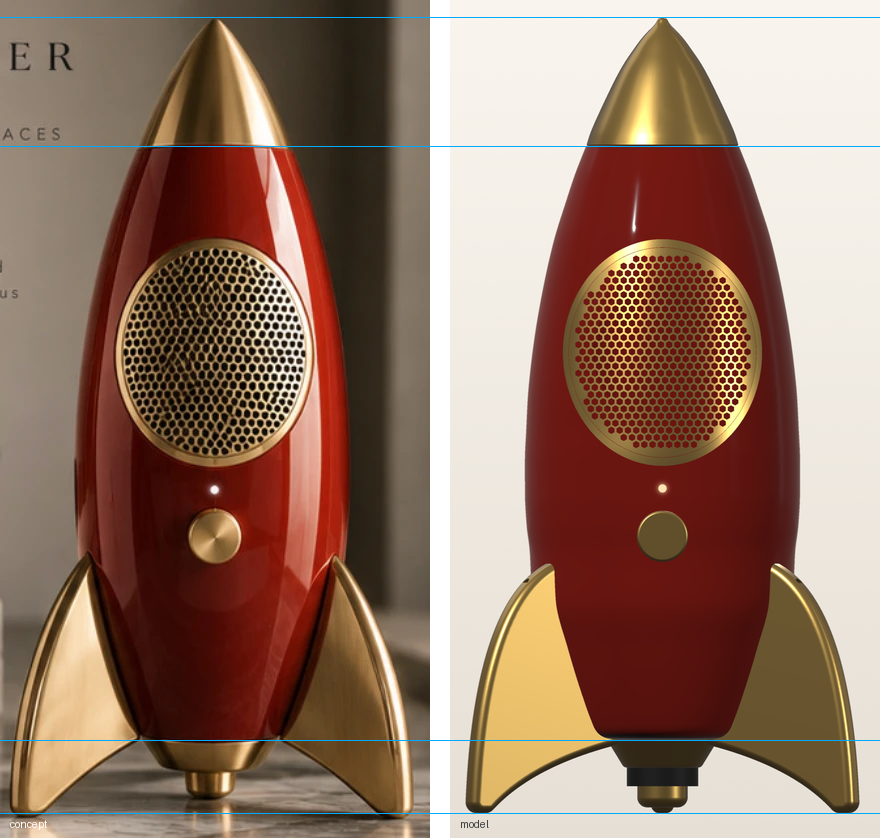
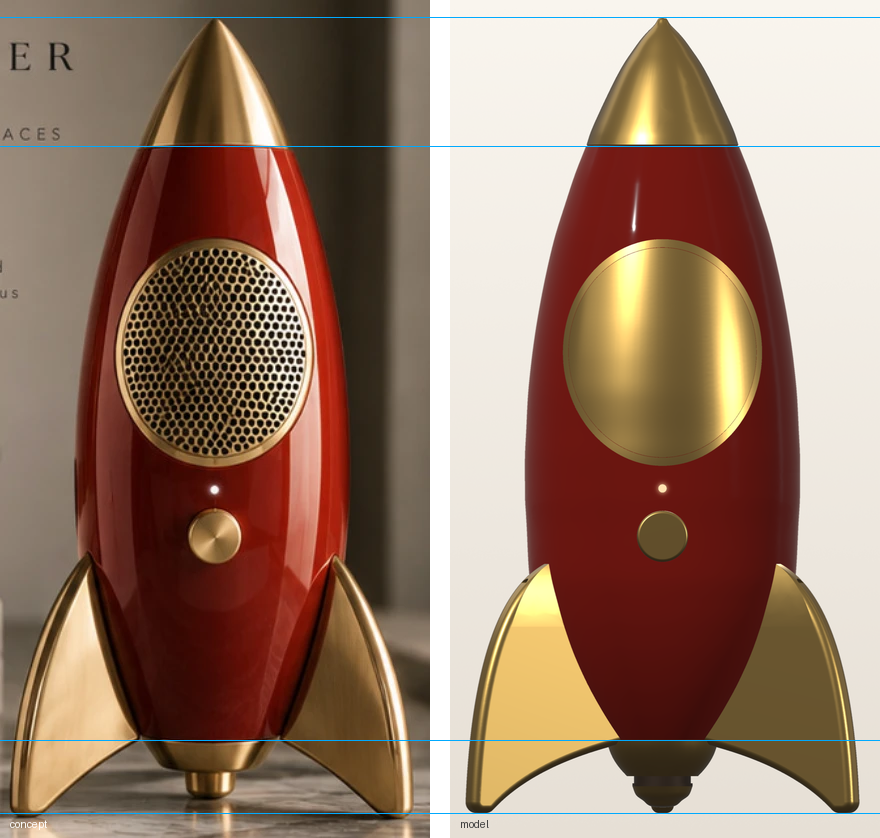
Draft: concept refinements to body taper, base, fin tops and grille backing
- Lower body tapers smoothly into the collar from knob height
- Collar is a convex gold cup flowing (across the vent line) into a small
  rounded foot; vent gap 3.5 mm, set 2.5 mm deeper, dark bronze, with the
  plate covering the foot top so no gold ledge catches light
- Fin tops thin to a point with a tangent taper (after edge rounding)
- Charcoal acoustic-cloth backing behind the grille
- compare_concept.py --draft and render.render_closeup for quick checks

Claude-Session: https://claude.ai/code/session_01Qkpg3hSMGJCCsE2jenCZsk

diff --git a/model.py b/model.py
@@ -37,6 +37,7 @@ from build123d import (
     chamfer,
     Location,
     Plane,
+    Polygon,
     Polyline,
     Pos,
     Rot,
@@ -157,6 +158,7 @@ def build(p, visual_only=False) -> Model:
         zm = z0 + bh * tt[int(np.argmax(rr))]
         a_top = math.atan(-R * float(f(1.0, 1)) / bh)
         d0 = R * float(f(0.0, 1)) / bh                              # dr/dz at the bottom
+        slope_bot = d0
         outer_curve = Edge.make_spline(
             [_xz(r, z) for r, z in prof],
             tangents=[Vector(d0, 0, 1).normalized(), Vector(-math.sin(a_top), 0, math.cos(a_top))])
@@ -175,6 +177,7 @@ def build(p, visual_only=False) -> Model:
         # slope at the joint, continued by the nose cone
         a_top = math.atan((R - rt) * nt / (zt - zm))
         a_bot = math.atan((R - rb) * nb / (zm - z0))
+        slope_bot = math.tan(a_bot)
         outer_curve = Edge.make_spline(
             [_xz(r, z) for r, z in prof],
             tangents=[Vector(math.cos(math.pi / 2 - a_bot), 0, math.sin(math.pi / 2 - a_bot)),
@@ -288,6 +291,13 @@ def build(p, visual_only=False) -> Model:
         front_outline(bezel_r - 0.1) - front_outline(grille_r)
     )
     bezel = _one_solid(bezel)
+    # charcoal acoustic cloth behind the grille, so no red shows through the holes
+    backing = None
+    if p.GRILLE_BACKING_THICK > 0:
+        bt = p.GRILLE_BACKING_THICK
+        body = body - (band(-p.GRILLE_RECESS - bt, -p.GRILLE_RECESS + 0.01) & front_outline(grille_r))
+        backing = _one_solid(band(-p.GRILLE_RECESS - bt, -p.GRILLE_RECESS - 0.02)
+                             & front_outline(grille_r - 0.1))
 
     if not visual_only:   # internals: skipped for quick previews
         # ---- driver mount (moulded into the body, behind the grille) ----------
@@ -436,17 +446,28 @@ def build(p, visual_only=False) -> Model:
         # bottom opening and breathes out through the collar bore and the gap.
         vg = p.BASE_VENT_GAP
         foot_h = p.FOOT_HEIGHT
-        collar_h = z0 - p.FOOT_GROUND_GAP - foot_h - p.BASE_VENT_PLATE - vg
+        g = p.FOOT_GROUND_GAP
+        collar_h = z0 - g - foot_h - vg
         if collar_h < 3.0:
             raise ValueError("Not enough base clearance for foot + vent gap + collar")
         z_cb = z0 - collar_h
+        z_ft = z_cb - vg                                       # top of the foot
         r_cb = p.BODY_MAX_DIA * p.COLLAR_BOTTOM_DIA_FRAC / 2
-        collar = Pos(0, 0, z_cb) * Solid.make_cone(r_cb, rb, collar_h)
-        try:                                               # soften the lower edge
-            collar = fillet(collar.edges().filter_by(GeomType.CIRCLE).sort_by(Axis.Z)[0],
-                            min(2.0, collar_h / 3))
-        except Exception:
-            pass
+
+        def lathe(profile_edge, r_top, z_top, r_bot, z_bot):
+            """Solid of revolution under a profile edge running top -> bottom."""
+            edges = [Edge.make_line(_xz(0, z_top), _xz(r_top, z_top)), profile_edge]
+            if r_bot > 1e-6:
+                edges.append(Edge.make_line(_xz(r_bot, z_bot), _xz(0, z_bot)))
+            edges.append(Edge.make_line(_xz(0, z_bot), _xz(0, z_top)))
+            return _revolve_profile(edges)
+
+        # gold cup: starts at the body's own slope, curves in and down so it
+        # flows (across the vent line) into the foot
+        down = lambda k: Vector(-k, 0, -1).normalized()
+        cup = Edge.make_spline([_xz(rb, z0), _xz(r_cb, z_cb)],
+                               tangents=[down(p.COLLAR_TOP_SLOPE), down(p.COLLAR_END_SLOPE)])
+        collar = lathe(cup, rb, z0, r_cb, z_cb)
         spig_o = r_open_bot - p.FIT_CLEARANCE
         bore_top = spig_o - p.COLLAR_WALL
         bore_bot = r_cb - p.COLLAR_WALL - 1.0
@@ -455,22 +476,25 @@ def build(p, visual_only=False) -> Model:
             Pos(0, 0, z0 - 1) * Cylinder(bore_top, p.FOOT_SPIGOT_HEIGHT + 2, align=MIN)
         foot = _one_solid(collar - bore)
 
-        # dark vent insert: base plate + recessed mesh ring, under the collar
+        # small rounded gold foot: carries on the cup's line, necks in, rounds off
+        # its top is tucked in just outside the dark insert, so no flat gold
+        # ledge faces up into the light under the vent
+        r_ft = r_cb - p.BASE_VENT_RECESS + 0.6
+        fp = Edge.make_spline(
+            [_xz(r_ft, z_ft), _xz(max(foot_r + 0.2, r_ft - 1.5), z_ft - 0.45 * foot_h),
+             _xz(foot_r * 0.8, g + 0.35 * foot_h), _xz(0, g)],
+            tangents=[down(0.4), Vector(-1, 0, 0)])
+        foot2 = lathe(fp, r_ft, z_ft, 0, g)
+
+        # dark bronze vent insert, set deep: a plate on the foot top and a mesh ring
         r_mo = r_cb - p.BASE_VENT_RECESS                     # mesh outer radius
         r_mi = r_mo - p.BASE_VENT_MESH_THICK
-        z_pl = z_cb - vg - p.BASE_VENT_PLATE
-        vent = Pos(0, 0, z_pl) * Cylinder(r_mo, p.BASE_VENT_PLATE, align=MIN)
-        vent = vent + Pos(0, 0, z_pl + p.BASE_VENT_PLATE - 0.2) * (
-            Cylinder(r_mo, vg + 0.4, align=MIN) - Cylinder(r_mi, vg + 1, align=MIN))
+        pl_t = p.BASE_VENT_PLATE
+        # the dark plate covers the whole top of the foot, so every edge in the gap is dark
+        vent = Pos(0, 0, z_ft - 0.01) * Cylinder(r_ft, pl_t, align=MIN)
+        vent = vent + Pos(0, 0, z_ft + pl_t - 0.2) * (
+            Cylinder(r_mo, vg - pl_t + 0.4, align=MIN) - Cylinder(r_mi, vg + 1, align=MIN))
         vent = _one_solid(vent)
-
-        # small rounded gold foot
-        foot2 = Pos(0, 0, p.FOOT_GROUND_GAP) * Cylinder(foot_r, foot_h + 0.2, align=MIN)
-        try:
-            foot2 = fillet(foot2.edges().filter_by(GeomType.CIRCLE).sort_by(Axis.Z)[0],
-                           min(p.FOOT_ROUND, foot_r - 0.5, foot_h - 0.5))
-        except Exception:
-            pass
         base_extra = {"vent_insert": vent, "base_foot": _one_solid(foot2)}
 
         # flow path areas (report): radiator -> body opening -> collar bore -> mesh -> gap
@@ -807,6 +831,9 @@ def build(p, visual_only=False) -> Model:
     m.parts["foot"] = foot
     m.parts["grille"] = grille
     m.parts["bezel"] = bezel
+    if backing is not None:
+        m.parts["grille_backing"] = backing
+        m.part_material_key["grille_backing"] = "grille_backing"
     m.parts["knob"] = knob
     for k, v in base_extra.items():
         m.parts[k] = v
@@ -915,6 +942,30 @@ def _build_fins(p, I, r_out, outer_solid, z0, bh, R, clear_r=0.0, hollow=True):
             break
         except Exception:
             continue
+    if p.FIN_TOP_TAPER > 0:
+        # thin the top end of the fin to a point so it blends into the body. The
+        # taper curve leaves the flat faces tangentially, so there's no crease.
+        zt0 = z_rt - p.FIN_TOP_TAPER
+        h1, h2 = T1 / 2, p.FIN_TOP_THICK / 2
+
+        def side(sg):
+            return Edge.make_spline([Vector(0, sg * h1, zt0), Vector(0, sg * h2, z_rt + 1)],
+                                    tangents=[Vector(0, 0, 1), Vector(0, -sg * 0.35, 1).normalized()])
+        big = ta + 2
+        prof = Wire([
+            Edge.make_line(Vector(0, -big, -30), Vector(0, big, -30)),
+            Edge.make_line(Vector(0, big, -30), Vector(0, big, zt0)),
+            Edge.make_line(Vector(0, big, zt0), Vector(0, h1, zt0)),
+            side(1),
+            Edge.make_line(Vector(0, h2, z_rt + 1), Vector(0, h2, z_rt + 40)),
+            Edge.make_line(Vector(0, h2, z_rt + 40), Vector(0, -h2, z_rt + 40)),
+            Edge.make_line(Vector(0, -h2, z_rt + 40), Vector(0, -h2, z_rt + 1)),
+            side(-1).reversed(),
+            Edge.make_line(Vector(0, -h1, zt0), Vector(0, -big, zt0)),
+            Edge.make_line(Vector(0, -big, zt0), Vector(0, -big, -30)),
+        ])
+        taper = Pos(-150, 0, 0) * extrude(Face(prof), amount=300, dir=(1, 0, 0))
+        blank = _one_solid(blank & taper)
     I["fin_solid_volume"] = _one_solid(blank - outer_solid).volume
 
     # bolt positions along the root
@@ -938,6 +989,8 @@ def _build_fins(p, I, r_out, outer_solid, z0, bh, R, clear_r=0.0, hollow=True):
         cav_wedge = Pos(0, 0, -5) * extrude(
             Face(Wire(Polyline(*cav_pts, close=True).edges())), amount=z_rt + 20)
         cavity = extrude(core2d, amount=ta, both=True) & cav_wedge
+        if p.FIN_TOP_TAPER > 0:                              # no core in the thin tapered top
+            cavity = cavity & Pos(0, 0, -50) * Box(400, 400, z_rt - p.FIN_TOP_TAPER + 50, align=MIN)
         for zb in bolt_z:
             ro = r_out(zb)
             cavity = cavity - along_x(p.FIN_BOSS_DIA / 2, ro - 4, ro + p.FIN_BOSS_LENGTH, zb)

diff --git a/params.py b/params.py
@@ -44,15 +44,16 @@ BODY_BOTTOM_FULLNESS = 2.4   # same for the lower body (higher = rounder "belly"
 # from the simple "fullness" curves above ("fullness").
 BODY_PROFILE_MODE = "points"
 # (height fraction 0 = bottom .. 1 = cone joint, radius / max radius), measured
-# from reference/atelier_concept.png by reference/fit_concept.py. The first few
-# points are the rounded belly bottom, which the fins hide in the photo.
+# from reference/atelier_concept.png by reference/fit_concept.py. Below knob
+# height (t < 0.34) the body tapers smoothly into the collar:
+# r = r_bottom + (r_knob - r_bottom) * (1 - (1 - t/0.34)**2).
 BODY_PROFILE_POINTS = [
-    (0.0000, 0.4035), (0.0024, 0.5107), (0.0072, 0.5692), (0.0167, 0.6150),
-    (0.0335, 0.6522), (0.0673, 0.7127), (0.1515, 0.8419), (0.2357, 0.9468),
-    (0.3190, 0.9650), (0.3611, 0.9873), (0.4150, 0.9995), (0.4689, 1.0000),
-    (0.5227, 0.9900), (0.5766, 0.9784), (0.6305, 0.9559), (0.6843, 0.9253),
-    (0.7382, 0.8857), (0.7921, 0.8387), (0.8460, 0.7826), (0.8998, 0.7101),
-    (0.9537, 0.6331), (0.9806, 0.5879), (1.0000, 0.5542),
+    (0.0000, 0.4035), (0.0200, 0.4702), (0.0500, 0.5626), (0.1000, 0.6964),
+    (0.1600, 0.8237), (0.2200, 0.9146), (0.2800, 0.9691), (0.3611, 0.9873),
+    (0.4150, 0.9995), (0.4689, 1.0000), (0.5227, 0.9900), (0.5766, 0.9784),
+    (0.6305, 0.9559), (0.6843, 0.9253), (0.7382, 0.8857), (0.7921, 0.8387),
+    (0.8460, 0.7826), (0.8998, 0.7101), (0.9537, 0.6331), (0.9806, 0.5879),
+    (1.0000, 0.5542),
 ]
 BODY_BOTTOM_LAND = 3.0       # flat land round the bottom opening (opening = bottom radius - this)
 WALL = 2.5                   # shell wall thickness
@@ -104,6 +105,8 @@ FIN_UNDERCUT = 0.400         # 0 = straight underside; higher = deeper arch unde
 FIN_ROOT_THICK = 8.0         # thickness where the fin meets the body
 FIN_TIP_THICK = 8.0          # thickness at the tip. Equal to the root = flat, parallel faces (concept)
 FIN_TIP_FLAT = 8.0           # length of the flat pad at the tip that touches the ground
+FIN_TOP_TAPER = 25.0         # the top this-many mm of each fin thins to a point into the body
+FIN_TOP_THICK = 1.0          # thickness at the very top of the fin
 FIN_EDGE_FILLET = 2.8        # rounding on the fin edges. Just under half of FIN_TIP_THICK
                              # gives fully rounded, cast-looking edges
 
@@ -140,6 +143,7 @@ HEX_PATTERN_ENABLED = True   # honeycomb holes (front grille and rear cover). Fa
 HEX_HOLE = 2.2               # hexagon size across the flats
 HEX_WEB = 0.7                # metal left between neighbouring holes
 
+GRILLE_BACKING_THICK = 0.4   # charcoal acoustic cloth behind the grille (0 = none)
 BEZEL_WIDTH = 3.0            # radial width of the raised gold ring
 BEZEL_PROUD = 1.5            # how far the ring stands above the red surface
 
@@ -213,12 +217,14 @@ PR_EXIT_AREA_RATIO = 1.0     # open (hole) area of the base mesh vs the radiatin
 #              dark shadow line (recessed dark mesh behind it), and a small rounded foot
 #   "nozzle" - gold honeycomb mesh ring and stepped rocket-engine nozzle (settings below)
 BASE_STYLE = "vent"
-BASE_VENT_GAP = 5.5          # height of the vent gap under the collar
-BASE_VENT_RECESS = 1.0       # the dark mesh sits this far inside the collar's lower edge
+BASE_VENT_GAP = 3.5          # height of the vent gap under the collar
+BASE_VENT_RECESS = 2.5       # the dark mesh sits this far inside the collar's lower edge
 BASE_VENT_MESH_THICK = 0.6   # black woven/perforated mesh ring
 BASE_VENT_MESH_OPEN = 0.60   # its open-area ratio (typical fine black stainless mesh)
-BASE_VENT_PLATE = 1.0        # dark plate that closes the bottom of the vent, on top of the foot
-COLLAR_BOTTOM_DIA_FRAC = 0.28   # collar tapers from the body bottom to this (fraction of BODY_MAX_DIA)
+BASE_VENT_PLATE = 1.0        # dark plate that closes the bottom of the vent, sunk into the foot top
+COLLAR_BOTTOM_DIA_FRAC = 0.258  # collar tapers from the body bottom to this (fraction of BODY_MAX_DIA)
+COLLAR_TOP_SLOPE = 0.15      # cup starts nearly vertical under the body (a convex bowl)...
+COLLAR_END_SLOPE = 1.0       # ...and curves in towards the foot (1 = 45 deg)
 COLLAR_WALL = 1.5            # collar bore wall
 FOOT_HEIGHT = 7.5            # small rounded foot (vent style)
 FOOT_ROUND = 3.5             # rounding on the foot's lower edge
@@ -282,6 +288,7 @@ MATERIAL_DENSITY = {          # g/cm^3
     "brass": 8.50,            # solid brass, turned
     "tungsten_alloy": 17.6,   # W-Ni-Fe heavy alloy ballast option (dense but costly)
     "pla": 1.24,              # typical FDM prototype
+    "acoustic_cloth": 0.50,   # charcoal speaker cloth
 }
 PART_MATERIALS = {
     "body": "pc_abs",
@@ -292,6 +299,7 @@ PART_MATERIALS = {
     "bezel": "aluminium",
     "knob": "brass",
     "chassis": "steel",       # internal sled
+    "grille_backing": "acoustic_cloth",
     "vent_insert": "stainless_304",  # black PVD mesh + plate in the base vent
     "ballast": "steel",       # internal ballast slug
 }
@@ -314,4 +322,5 @@ BODY_CLEARCOAT_ROUGHNESS = 0.04
 GOLD_METALLIC = 1.0
 GOLD_ROUGHNESS = 0.35        # soft, brushed reflections
 LED_HEX = "#FFE2B0"
-VENT_HEX = "#141312"         # the dark vent insert under the collar          # warm white status LED
+CLOTH_HEX = "#2B2A29"        # charcoal grille backing
+VENT_HEX = "#3A2B1D"         # the vent insert under the collar: dark bronze, reads as shadow          # warm white status LED

diff --git a/render.py b/render.py
@@ -180,8 +180,9 @@ def _plotter(model, p, size, section=False, shadow=True):
             mesh = mesh.clip(**clip)
         is_red = name.startswith("body")
         dark = dict(color=hex_linear(p.VENT_HEX), pbr=True, metallic=0.6, roughness=0.6)
+        cloth = dict(color=hex_linear(p.CLOTH_HEX), pbr=True, metallic=0.0, roughness=0.95)
         style = (red if is_red else steel if name in internal else
-                 dark if name == "vent_insert" else gold)
+                 dark if name == "vent_insert" else cloth if name == "grille_backing" else gold)
         actor = pl.add_mesh(mesh, smooth_shading=True, **style)
         if is_red and p.BODY_CLEARCOAT > 0:
             prop = actor.GetProperty()
@@ -272,6 +273,22 @@ def render_underside(model, p, path):
     pl.camera.focal_point = UNDERSIDE["focal"]
     pl.camera.up = (0, 0, 1)
     pl.camera.view_angle = UNDERSIDE["view_angle"]
+    pl.reset_camera_clipping_range()
+    pl.screenshot(str(path))
+    pl.close()
+    return path
+
+
+def render_closeup(model, p, path, direction=(0.62, 0.78, 0.18), focal=(0.0, 0.0, 35.0),
+                   dist=330.0, view_angle=24):
+    """Close-up from a direction (default: rear three-quarter) at a point on the model."""
+    d = np.array(direction, dtype=float)
+    d /= np.linalg.norm(d)
+    pl = _plotter(model, p, p.RENDER_SIZE)
+    pl.camera.position = tuple(np.array(focal) + d * dist)
+    pl.camera.focal_point = focal
+    pl.camera.up = (0, 0, 1)
+    pl.camera.view_angle = view_angle
     pl.reset_camera_clipping_range()
     pl.screenshot(str(path))
     pl.close()

diff --git a/compare_concept.py b/compare_concept.py
@@ -76,9 +76,12 @@ def body_widths(mask_red, rows):
 
 
 def main():
+    draft = "--draft" in sys.argv          # visible parts only, honeycomb off, side-by-side only
+    if draft:
+        p.HEX_PATTERN_ENABLED = False
     OUT.mkdir(parents=True, exist_ok=True)
     print("Building model...")
-    m = geometry.build(p)
+    m = geometry.build(p, visual_only=draft)
     print("Rendering orthographic front views...")
     flat = render_front_ortho(m, flat_bg=True)
     pretty = render_front_ortho(m, flat_bg=False)
@@ -94,6 +97,9 @@ def main():
     for y in (fc.Y_TIP, fc.Y_JOINT, fc.Y_BODY_BOTTOM, fc.Y_GROUND):   # shared reference lines
         d.line([(0, y), (sbs.width, y)], fill=(0, 170, 255), width=1)
     sbs.save(OUT / "side_by_side.png")
+    if draft:
+        print(OUT / "side_by_side.png")
+        return
 
     # overlay: model silhouette (cyan) + model's gold feature edges (magenta)
     sil = silhouette(flat)
